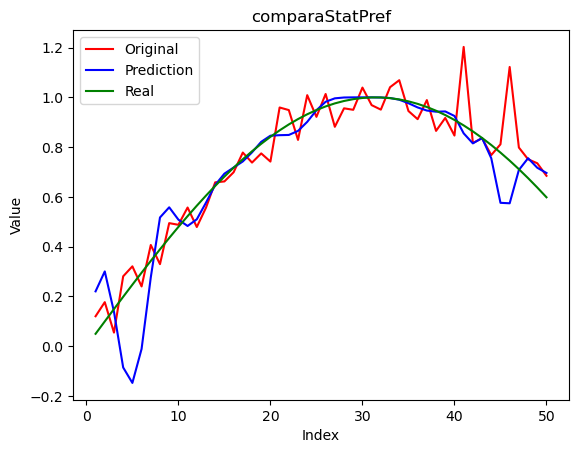
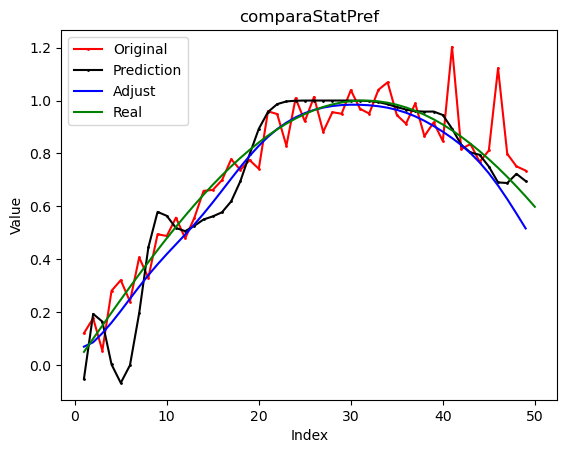
feat: adjust prediction n times and mse

diff --git a/functions/LowQualityData.py b/functions/LowQualityData.py
@@ -2,6 +2,7 @@ import matplotlib.pyplot as plt
 import pandas as pd
 
 from functions.delta import deltacrisp
+from functions.fuzzy_rule_based import *
 from functions.genetic import *
 from utils.comparators import comparaMSE
 from utils.comparators import comparaStatPref
@@ -39,6 +40,7 @@ class LowQualityData():
 		# Creamos la poblecion de ajuste
 		self.poblacion_ajuste = genetico(self.datos, self.mygran, self.mydimx, self.POP, self.params, deltacrisp,
 										 comparador, self.datos[:, 1], self.NITER, self.c)
+		self.datostrain = self.datos
 
 	# return self.poblacion_ajuste
 
@@ -48,34 +50,83 @@ class LowQualityData():
 		# 	end = '\033[0m'
 		# 	print(f"{error}[ERROR]: No fitted data to use. Please, use fit() before predict(){end}")
 
+		self.datos = np.array(datos)
+		self.original = np.array(datos)
+
 		for gen in range(self.NITER):
 			self.prediccion = myFRBS(datos[:, 0], self.poblacion_ajuste[gen].genoma[0:self.mygran],
 									 self.poblacion_ajuste[gen].genoma[self.mygran:2 * self.mygran],
 									 self.poblacion_ajuste[gen].genoma[2 * self.mygran:3 * self.mygran], self.mygran,
 									 self.mydimx)
-			f = open('..\\resources\\results\\output-crisp.csv', 'w')
-			f.write('Index;Original;Prediction\n')
-			for i in range(len(self.prediccion)):
-				f.write(str(datos[i, 0]) + ';' + str(datos[i, 1]) + ';' + str(self.prediccion[i]) + '\n')
-			f.close()
-
-		self.save()
-
+		# f = open('..\\resources\\results\\output-crisp.csv', 'w')
+		# f.write('Index;Original;Prediction\n')
+		# for i in range(len(self.prediccion)):
+		# 	f.write(str(datos[i, 0]) + ';' + str(datos[i, 1]) + ';' + str(self.prediccion[i]) + '\n')
+		# f.close()
+		# self.save()
+		self.datos[:, 1] = self.prediccion
 		return self.prediccion
+
+	def adjust(self, numiter):
+		for _ in range(numiter):
+			self.datos = np.array(self.datos)
+			predicho = [self.__suma(self.datos[0, 1], self.prediccion[0])]
+			for i in range(1, len(self.datos) - 1):
+				predicho.append(self.__suma(predicho[i - 1], self.datos[i + 1, 1]))
+			predicho.append(self.__suma(predicho[len(predicho) - 2], self.datos[len(self.datos) - 1, 1]))
+			predicho = np.array(predicho)
+
+			# Ajuste del primero
+			predicho[0] = self.__suma(predicho[0], self.datos[1, 1])
+
+			for i in range(len(self.datos) - 1):
+				self.datos[i, 1] = predicho[i]
+
+		predicho = np.array(predicho)
+
+		f = open('..\\resources\\results\\output-crisp.csv', 'w')
+		f.write('Index;Original;Prediction;Adjust\n')
+		print("PREDICHO")
+		print(predicho)
+		for i in range(len(self.prediccion) - 1):
+			f.write(str(self.datos[i, 0]) + ';' + str(self.original[i, 1]) + ';' + str(self.prediccion[i]) + ';' + str(
+				predicho[i]) + '\n')
+		f.close()
+		self.predicho = predicho
+		return self.predicho
+
+	def mse(self, Y, predicted):
+		array1 = np.array(Y)
+		array2 = np.array(predicted)
+
+		diference_array = np.subtract(array1, array2)
+
+		squared_array = np.square(diference_array)
+
+		return squared_array.mean()
+
+	def __suma(self, a, b):
+		if a < 0 <= b:
+			return a + ((abs(a) + abs(b)) / 2)
+		elif a < 0 and b < 0:
+			return -(abs(a) + abs(b)) / 2
+		else:
+			return (abs(a) + abs(b)) / 2
 
 	def setLabel(self, label):
 		self.title = label
 
 	def save(self):
 		output_crisp = pd.read_csv("..\\resources\\results\\output-crisp.csv", sep=";",
-								   names=['Index', 'Original', 'Prediction'])
+								   names=['Index', 'Original', 'Prediction', 'Adjust'])
 
 		output_crisp = output_crisp.apply(pd.to_numeric, errors='coerce')
 
 		ax = plt.gca()
 
-		output_crisp.plot(kind='line', x='Index', y='Original', color='red', ax=ax)
-		output_crisp.plot(kind='line', x='Index', y='Prediction', color='blue', ax=ax)
+		output_crisp.plot(marker='o', markersize=1, x='Index', y='Original', color='red', ax=ax)
+		output_crisp.plot(marker='o', markersize=1, x='Index', y='Prediction', color='black', ax=ax)
+		output_crisp.plot(kind='line', x='Index', y='Adjust', color='blue', ax=ax)
 
 		noiseless_data = pd.read_csv("..\\resources\\data\\50sin-noiseless.csv", sep=";", names=['Index', 'Real'])
 		noiseless_data = noiseless_data.apply(pd.to_numeric, errors='coerce')

diff --git a/main/main.py b/main/main.py
@@ -1,5 +1,9 @@
+from sklearn.ensemble import RandomForestRegressor
+from sklearn.metrics import mean_squared_error
+
 from functions import LowQualityData
 from utils.comparators import *
+
 # -----------------------------------------------#
 # -----------------------------------------------#
 # -----------     DATA LOADING     --------------#
@@ -47,8 +51,8 @@ datostrain = array(datostrain)
 # -----------------------------------------------#
 # -----------------------------------------------#
 
-modelo = LowQualityData.LowQualityData()
-modelo.setLabel("comparaMSE")
+modelo = LowQualityData.LowQualityData(c=0.20)
+modelo.setLabel("comparaStochDom")
 # -----------------------------------------------#
 # -----------------------------------------------#
 # -----------      FIT MODEL       --------------#
@@ -62,6 +66,25 @@ modelo.fit(datostrain, comparaMSE)
 # -----------------------------------------------#
 # -----------------------------------------------#
 resultado = modelo.predict(datos)
+ajuste = modelo.adjust(10)
 
-print("\n-- Resultados--\n")
-print(resultado)
+regressor = RandomForestRegressor()
+regressor.fit(datostrain, datostrain[:, 1])
+
+rf_result = regressor.predict(datos)
+
+mse_rf = mse = mean_squared_error(datostrain[:, 1], rf_result)
+
+mse1 = modelo.mse(datostrain[:, 1], resultado)
+mse2 = modelo.mse(datostrain[:, 1], ajuste)
+
+print("Error cuadratico medio FRBS: {0}".format(mse1))
+print("Error cuadratico medio FRBS (ajuste): {0}".format(mse2))
+print("Error cuadratico medio RF: {0}".format(mse_rf))
+
+modelo.save()
+print("\n-- Valores reales --\n")
+print(datostrain)
+
+print("\n-- Resultados tras ajuste--\n")
+print(ajuste)
